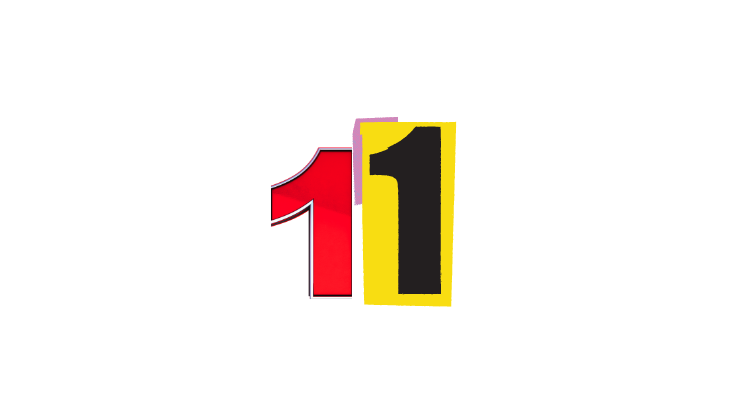
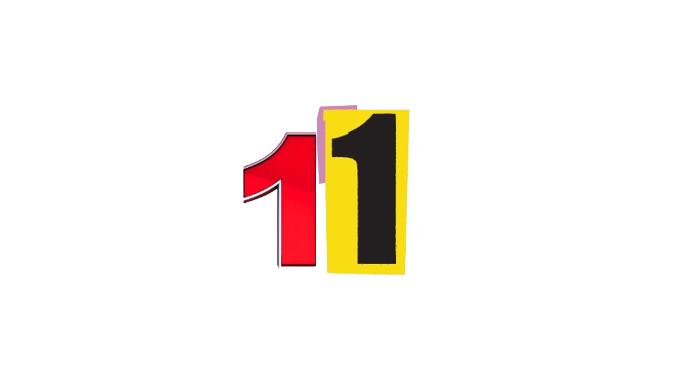
resources renomeados

diff --git a/index.html b/index.html
@@ -129,7 +129,7 @@
                     <div class="wrapper">
                         <img src="resources/JUVEFUNDOBASE.jpg" class="cover-image" />
                     </div>
-                    <img src="/resources/juventus-time/20-removebg-preview.png" class="title" />
+                    <img src="/resources/juventus-time/7.png" class="title" />
 
                     <img src="resources/juventus-characters/comemora_chiesa.webp" class="character" />
                     <img src="/resources/juventus-time/chiesa-removebg-preview.png" class="character-title" />
@@ -138,7 +138,7 @@
                     <div class="wrapper">
                         <img src="resources/JUVEFUNDOBASE.jpg" class="cover-image" />
                     </div>
-                    <img src="/resources/juventus-time/9-removebg-preview.png" class="title" />
+                    <img src="/resources/juventus-time/9.png" class="title" />
 
                     <img src="resources/juventus-characters/comemora_vlaho.webp" class="character" />
                     <img src="/resources/juventus-time/vlahovic-removebg-preview.png" class="character-title" />
@@ -149,7 +149,7 @@
                     <div class="wrapper">
                         <img src="resources/JUVEFUNDOBASE.jpg" class="cover-image" />
                     </div>
-                    <img src="/resources/juventus-time/11-removebg-preview.png" class="title"
+                    <img src="/resources/juventus-time/11.png" class="title"
                         style="filter: invert();" />
 
                     <img src="resources/juventus-characters/comemora_kostic.png" class="character" />
@@ -159,7 +159,7 @@
                     <div class="wrapper">
                         <img src="resources/JUVEFUNDOBASE.jpg" class="cover-image" />
                     </div>
-                    <img src="/resources/juventus-time/25-removebg-preview.png" class="title" />
+                    <img src="/resources/juventus-time/25.png" class="title" />
 
                     <img src="resources/juventus-characters/comemora_rabiot.webp" class="character" />
                     <img src="/resources/juventus-time/rabiot-removebg-preview.png" class="character-title" />
@@ -168,7 +168,7 @@
                     <div class="wrapper">
                         <img src="resources/JUVEFUNDOBASE.jpg" class="cover-image" />
                     </div>
-                    <img src="/resources/juventus-time/5-removebg-preview.png" class="title" />
+                    <img src="/resources/juventus-time/5.png" class="title" />
 
                     <img src="resources/juventus-characters/comemora_locatelli.png" class="character" />
                     <img src="/resources/juventus-time/locatelli-removebg-preview.png" class="character-title" />
@@ -177,7 +177,7 @@
                     <div class="wrapper">
                         <img src="resources/JUVEFUNDOBASE.jpg" class="cover-image" />
                     </div>
-                    <img src="/resources/juventus-time/16-removebg-preview.png" class="title" />
+                    <img src="/resources/juventus-time/16.png" class="title" />
 
                     <img src="resources/juventus-characters/comemora_mckennie.png" class="character" />
 
@@ -187,7 +187,7 @@
                     <div class="wrapper">
                         <img src="resources/JUVEFUNDOBASE.jpg" class="cover-image" />
                     </div>
-                    <img src="/resources/juventus-time/27-removebg-preview.png" class="title" />
+                    <img src="/resources/juventus-time/27.png" class="title" />
 
                     <img src="resources/juventus-characters/comemora_cambiaso.png" class="character"/>
                     <img src="/resources/juventus-time/cambiaso-removebg-preview.png" class="character-title" />
@@ -200,7 +200,7 @@
                     <div class="wrapper">
                         <img src="resources/JUVEFUNDOBASE.jpg" class="cover-image" />
                     </div>
-                    <img src="/resources/juventus-time/12-removebg-preview.png" class="title" />
+                    <img src="/resources/juventus-time/12.png" class="title" />
 
                     <img src="resources/juventus-characters/comemora_alexsandro.webp" class="character" />
                     <img src="/resources/juventus-time/alexsandro-removebg-preview.png" class="character-title" />
@@ -209,7 +209,7 @@
                     <div class="wrapper">
                         <img src="resources/JUVEFUNDOBASE.jpg" class="cover-image" />
                     </div>
-                    <img src="/resources/juventus-time/3-removebg-preview.png" class="title" />
+                    <img src="/resources/juventus-time/3.png" class="title" />
 
                     <img src="resources/juventus-characters/comemora_bremer.webp" class="character" />
                     <img src="/resources/juventus-time/Bremer-removebg-preview.png" class="character-title" />
@@ -218,7 +218,7 @@
                     <div class="wrapper">
                         <img src="resources/JUVEFUNDOBASE.jpg" class="cover-image" />
                     </div>
-                    <img src="/resources/juventus-time/6-removebg-preview.png" class="title" />
+                    <img src="/resources/juventus-time/6.png" class="title" />
 
                     <img src="resources/juventus-characters/comemora_danilo.webp" class="character" />
                     <img src="/resources/juventus-time/danilo-removebg-preview.png" class="character-title" />
@@ -232,7 +232,7 @@
                     <div class="wrapper">
                         <img src="resources/JUVEFUNDOBASE.jpg" class="cover-image" />
                     </div>
-                    <img src="/resources/juventus-time/1-removebg-preview.png" class="title" />
+                    <img src="/resources/juventus-time/1.png" class="title" />
 
                     <img src="resources/juventus-characters/comemora_szczesny.webp" class="character" />
                     <img src="/resources/juventus-time/szczesny-removebg-preview.png" class="character-title" />
